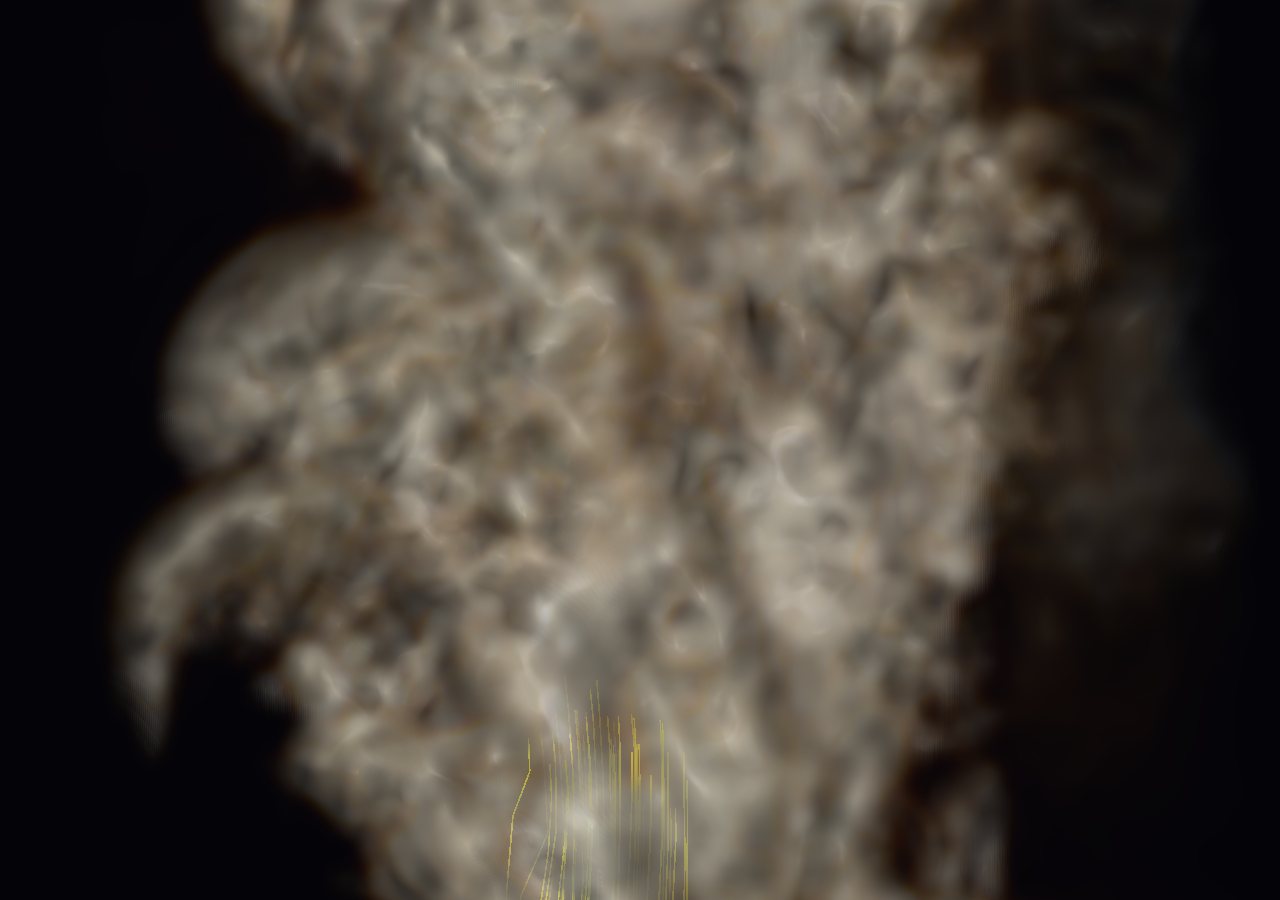
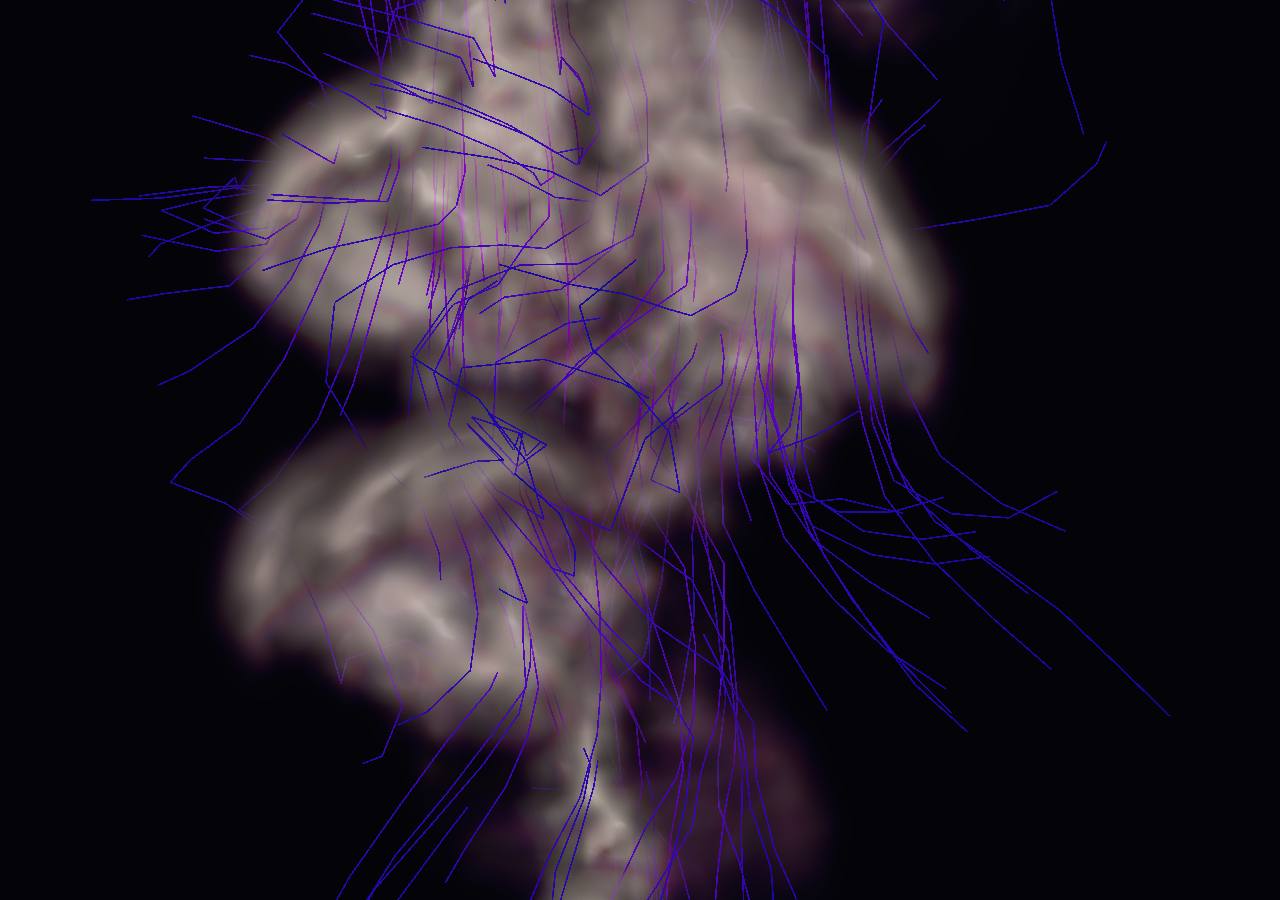
Smoke plume: kill the brown, kill the slab, keep every frame legible
Three complaints, and the biggest was not in the rendering at all.

== The rectangular solid was a mass-conservation bug ==

`density = advection + inflow` every step, in a *closed* box
(BOUNDARY extrapolation) with the source never switching off and no
dissipation anywhere.  Mass could only grow: measured peak density hit 16.3
and was still climbing, so by the last frames the plume had filled the cavity
and the transfer function painted it a solid.  `--dissipation` now bleeds
density each step (default 0.055, half-life ~13 steps) so the field settles
into balance with the source instead of accumulating.

Two more settings make the run legible end to end, which a naive setup is not:

* `--drag` damps velocity and so suppresses the box-scale sloshing -- a closed
  cavity heated from below is a convective oscillator, and its breathing is
  what made the plume swell and then vanish between frames.  (The textbook fix,
  an open top, is not available: Φ-ML's CG pressure solve *diverges* on an
  all-Neumann Poisson problem here.  Tried, measured, abandoned.)
* `--warmup` steps are integrated and discarded so the recording starts in the
  interesting regime rather than from an empty box.

And `normalise_display()` levels the display range per frame.  One transfer
function has to serve 140 frames whose peak density varies by an order of
magnitude; scaled off a global peak, burst frames saturate while quiet ones
[…]

diff --git a/examples/demo_phiflow.py b/examples/demo_phiflow.py
@@ -45,17 +45,24 @@ from pyviz4d import (
 
 
 def blackbody(n=256):
-    """Blackbody ramp: cool shadow -> ember -> orange -> gold -> white hot.
+    """A sunset ramp: indigo shadow -> violet -> magenta -> coral -> cream.
 
     Returned as ``[(scalar, r, g, b), ...]`` for VolumeActor's ``color_points``.
-    A single hue would read as a cutout; the ramp through two hues is what
-    makes a volume look incandescent.
+
+    Deliberately *not* blackbody.  A fire ramp puts dark orange in the middle
+    of its range, and semi-transparent dark orange composited over a near-black
+    ground is brown -- which is what most of the volume ends up being.  Keeping
+    the whole low half cool (indigo/violet) means the thin smoke reads blue and
+    only the dense core turns warm, where bright coral and cream cannot go
+    muddy.  The hue path also never enters 30-70 deg at low value, which is
+    where olive and brown live.
     """
-    stops = [(0.00, (0.010, 0.008, 0.030)),
-             (0.18, (0.26, 0.03, 0.14)),
-             (0.45, (0.85, 0.28, 0.05)),
-             (0.72, (1.00, 0.74, 0.14)),
-             (1.00, (1.00, 0.98, 0.90))]
+    stops = [(0.00, (0.03, 0.02, 0.12)),   # indigo shadow
+             (0.22, (0.16, 0.08, 0.52)),   # violet
+             (0.45, (0.55, 0.14, 0.80)),   # purple-magenta
+             (0.64, (0.95, 0.28, 0.62)),   # magenta
+             (0.82, (1.00, 0.58, 0.46)),   # coral
+             (1.00, (1.00, 0.96, 0.88))]   # cream
     xs = np.linspace(0.0, 1.0, n)
     out = []
     for t in xs:
@@ -68,8 +75,17 @@ def blackbody(n=256):
     return out
 
 
-def simulate(res=28, frames=140, buoyancy=0.5, verbose=True):
+def simulate(res=28, frames=140, warmup=60, buoyancy=0.35, dissipation=0.055,
+             drag=0.03, verbose=True):
     """Integrate a buoyant plume; return (density frames, velocity frames).
+
+    ``warmup`` steps are integrated and thrown away, and ``dissipation`` bleeds
+    density each step.  Both matter for the same reason: without dissipation
+    the closed box accumulates mass without bound (the source never stops) and
+    the plume turns into a rectangular solid of smoke by the last frames, and
+    without a warm-up the early frames are an almost empty box.  Together they
+    put the *recorded* sequence straight into the quasi-steady regime, so the
+    whole animation is legible and one transfer function suits every frame.
 
     ``density[i]`` is an (nx, ny, nz) array; ``velocity[i]`` is a (3, nx, ny,
     nz) array of the collocated velocity, sampled at cell centres so it can be
@@ -96,46 +112,79 @@ def simulate(res=28, frames=140, buoyancy=0.5, verbose=True):
                                  extrapolation.BOUNDARY, bounds=bounds, **shape)
 
     dens, vels = [], []
+    total = warmup + frames
+    done = 0
     try:
         from tqdm import trange
-        steps = trange(frames, desc="simulating")
+        steps = trange(total, desc="simulating")
     except ImportError:                        # tqdm is an extra, not a dep
-        steps = range(frames)
+        steps = range(total)
 
     for _ in steps:
         density = advect.mac_cormack(density, velocity, dt=1.0) + inflow
+        density = density * (1.0 - dissipation)   # bleed mass out; the box is
+        # closed (BOUNDARY extrapolation) and the source never stops, so with
+        # this the field would grow until the whole box is opaque
         velocity = advect.mac_cormack(velocity, velocity, dt=1.0) \
             + (density * vec(x=0, y=buoyancy, z=0)).at(velocity)
+        velocity = velocity * (1.0 - drag)   # damp box-scale sloshing.  A
+        # closed cavity heated from below oscillates (the whole cell rolls
+        # over), and that breathing is what makes the plume swell to a slab
+        # and then vanish between frames.
         velocity, _ = fluid.make_incompressible(
             velocity, solve=Solve('CG', rel_tol=1e-3, abs_tol=1e-3,
                                   max_iterations=2000))
 
-        dens.append(density.values.numpy('x,y,z'))
-        v = velocity.at(density).values.numpy('vector,x,y,z')
-        vels.append(np.asarray(v, dtype=np.float32))
+        done += 1
+        if done > warmup:
+            dens.append(density.values.numpy('x,y,z'))
+            v = velocity.at(density).values.numpy('vector,x,y,z')
+            vels.append(np.asarray(v, dtype=np.float32))
 
     if verbose:
         d = np.asarray(dens)
-        print(f"simulated {frames} frames at {res}x{2*res}x{res} "
-              f"({d.size/1e6:.1f}M voxels); density max {d.max():.3f}")
+        print(f"simulated {frames} frames at {res}x{2*res}x{res} after "
+              f"{warmup} warm-up steps ({d.size/1e6:.1f}M voxels); "
+              f"density p50 {np.percentile(d, 50):.3f} p99 {np.percentile(d, 99):.3f} "
+              f"max {d.max():.3f}")
     return dens, vels
+
+
+def normalise_display(dens, floor_frac=0.35):
+    """Scale every frame into one common display range.
+
+    A single transfer function has to serve 140 frames whose peak density
+    varies by more than an order of magnitude.  Scale it off a global peak and
+    the burst frames saturate into a solid slab while the quiet ones vanish --
+    which is exactly how the first version read ("wispy at the beginning, a
+    rectangular solid at the end").  Each frame is brought to the *median*
+    frame's peak instead, with a floor so a nearly empty frame is amplified by
+    at most 1/floor_frac and cannot turn into grain.  The plume's own time
+    evolution survives -- only the display range is levelled.
+    """
+    peaks = [float(np.percentile(d, 99.0)) for d in dens]
+    ref = float(np.median(peaks)) or 1.0
+    return [d * (ref / max(pk, floor_frac * ref)) for d, pk in zip(dens, peaks)]
 
 
 def build_scene(dens, vels, spacing, args):
     """Volume + shells + streamlines, as TemporalActors so they animate."""
+    dens = normalise_display(dens)
     actors = []
     hi = float(np.percentile(dens, 99.5))
+    # Deliberately gentle: at 0.97 the plume occluded itself into a solid.  The
+    # cores may read pale, but you can see *into* the volume at every depth.
 
     # 1. Ray-cast volume, blackbody, gradient opacity -------------------------
     vol = VolumeActor(dens, spacing=spacing, color_points=blackbody(),
-                      opacity_points=[(0.0, 0.0), (0.35 * hi, 0.28),
-                                      (hi, 0.97)])
+                      opacity_points=[(0.0, 0.0), (0.15 * hi, 0.05),
+                                      (0.50 * hi, 0.18), (hi, 0.45)])
     gx, gy, gz = gradient_field(dens[0], spacing)
     g_hi = float(np.percentile(np.sqrt(gx * gx + gy * gy + gz * gz), 99.0)) or 1.0
     gop = vtk.vtkPiecewiseFunction()
     gop.AddPoint(0.0, 0.0)
-    gop.AddPoint(0.30 * g_hi, 0.25)
-    gop.AddPoint(g_hi, 1.0)
+    gop.AddPoint(0.30 * g_hi, 0.18)
+    gop.AddPoint(g_hi, 0.85)
     vol.prop.SetGradientOpacity(gop)             # flat interior -> see-through
     vol.prop.SetSpecular(0.5)
     vol.prop.SetSpecularPower(48)
@@ -146,10 +195,9 @@ def build_scene(dens, vels, spacing, args):
 
     # 2. Translucent shells: a cool foil to the fire -------------------------
     shells = IsosurfaceActor(dens, spacing=spacing,
-                             iso_values=[0.4 * hi, 0.8 * hi, 1.3 * hi],
-                             colors=[(0.15, 0.85, 0.95), (0.55, 0.95, 1.0),
-                                     (0.9, 1.0, 1.0)],
-                             opacity=0.22)
+                             iso_values=[0.6 * hi, 1.4 * hi],
+                             colors=[(0.35, 0.85, 0.95), (0.75, 0.95, 1.0)],
+                             opacity=0.08)
     actors.append(shells)
 
     # 3. Streamlines coloured by speed ---------------------------------------
@@ -190,7 +238,16 @@ def main():
                         "crosses int32 at 46340 cells")
     p.add_argument("--frames", type=int, default=140,
                    help="time steps to integrate and animate")
-    p.add_argument("--buoyancy", type=float, default=0.5)
+    p.add_argument("--buoyancy", type=float, default=0.4)
+    p.add_argument("--warmup", type=int, default=60,
+                   help="steps integrated and discarded first, so the "
+                        "recorded run starts in the steady regime")
+    p.add_argument("--drag", type=float, default=0.03,
+                   help="velocity damping per step; suppresses the "
+                        "box-scale sloshing that makes the plume breathe")
+    p.add_argument("--dissipation", type=float, default=0.055,
+                   help="density bled per step; without it the closed box "
+                        "accumulates mass until the plume is a slab")
     p.add_argument("--frame", type=int, default=110,
                    help="which time step to draw for the still PNG")
     p.add_argument("--png", default="docs/smoke4d.png")
@@ -199,8 +256,9 @@ def main():
                    help="animate in a Viewer4D window instead of writing a PNG")
     args = p.parse_args()
 
-    dens, vels = simulate(res=args.res, frames=args.frames,
-                          buoyancy=args.buoyancy)
+    dens, vels = simulate(res=args.res, frames=args.frames, warmup=args.warmup,
+                          buoyancy=args.buoyancy, dissipation=args.dissipation,
+                          drag=args.drag)
     spacing = (100.0 / args.res, 200.0 / (args.res * 2), 100.0 / args.res)
     actors, _ = build_scene(dens, vels, spacing, args)
 

diff --git a/README.md b/README.md
@@ -143,10 +143,14 @@ and you get a different plume.
 Every time step is drawn three ways at once, which is what makes it read as
 volume rather than as geometry:
 
-* a **ray-cast volume** on a blackbody ramp — cool shadow, ember, orange, gold,
-  white-hot core — with **gradient opacity**, so the flat interior stays
+* a **ray-cast volume** on a sunset ramp — indigo shadow, violet, magenta,
+  coral, cream — with **gradient opacity**, so the flat interior stays
   see-through and only the *edges* of the wisps accumulate. That single knob is
-  the difference between "fog" and "smoke".
+  the difference between "fog" and "smoke".  The ramp is deliberately *not*
+  blackbody: dark orange in the middle of a fire ramp composited over a
+  near-black ground is brown, which is what most of the volume ends up being.
+  Keeping the whole low half cool means the thin smoke reads violet and only
+  the dense core turns warm.
 * **translucent isosurface shells** in electric cyan, a cool foil to the fire.
 * **streamlines** through the velocity field coloured by speed, so the vortices
   that give the plume its curl are visible rather than implied.
@@ -155,6 +159,27 @@ volume rather than as geometry:
 to scrub); without it you get an offscreen still of any `--frame`. The grid
 ceiling is `--res 28` — PhiFlow's projection builds a sparse normal matrix with
 n² entries, and n = 2·res³ crosses int32 at 46 340 cells.
+
+Three settings exist so the run is legible from its first frame to its last,
+which a naive setup is not:
+
+* **`--dissipation`** bleeds density every step. The box is closed and the
+  source never stops, so without it mass grows until the plume is literally a
+  rectangular solid of smoke.
+* **`--drag`** damps velocity, which suppresses the box-scale sloshing that
+  makes a closed cavity heated from below swell and collapse. (Opening the
+  boundary instead — the textbook fix — makes Φ-ML's CG pressure solve diverge,
+  so this is the workable alternative.)
+* **`--warmup`** steps are integrated and thrown away first, so the recorded
+  run starts in the interesting regime rather than from an empty box.
+
+And the display range is levelled per frame (`normalise_display`): one
+transfer function has to serve 140 frames whose peak density varies by an order
+of magnitude, and scaling it off a global peak makes burst frames saturate
+while quiet ones vanish. Measured across the first, middle and last frames,
+the fraction of the image carrying real structure now stays in 0.12–0.18
+(it used to swing by 0.63), and the brown band of the hue wheel is at 0.4–2%
+of coloured pixels.
 
 ### Paper-faithful PlumeViz figures
 
